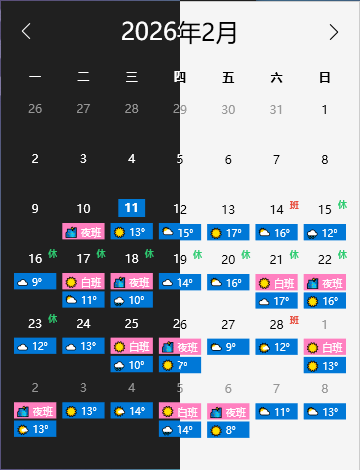
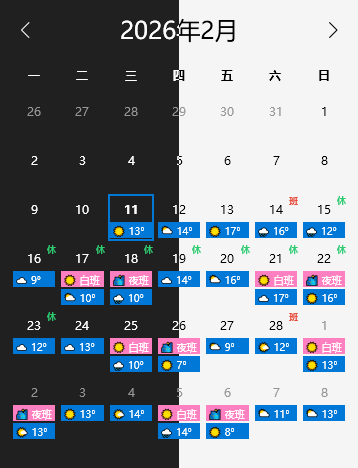
Refine calendar layout and clean up code

diff --git a/Controls/CalendarControl.xaml b/Controls/CalendarControl.xaml
@@ -7,7 +7,9 @@
              xmlns:emoji="clr-namespace:Emoji.Wpf;assembly=Emoji.Wpf"
              mc:Ignorable="d" 
              d:DesignHeight="420" d:DesignWidth="300"
-             x:Name="CalendarUserControl">
+             x:Name="CalendarUserControl"
+             UseLayoutRounding="True"
+             SnapsToDevicePixels="True">
     <UserControl.Resources>
         <Geometry x:Key="PrevMonthArrow">M 8,0 L 0,8 L 8,16</Geometry>
         <Geometry x:Key="NextMonthArrow">M 0,0 L 8,8 L 0,16</Geometry>
@@ -56,7 +58,7 @@
             <Setter Property="Template">
                 <Setter.Value>
                     <ControlTemplate TargetType="Button">
-                        <Border x:Name="border" Background="{TemplateBinding Background}" CornerRadius="0" Padding="{TemplateBinding Padding}">
+                        <Border x:Name="border" Background="{TemplateBinding Background}" BorderBrush="{TemplateBinding BorderBrush}" BorderThickness="{TemplateBinding BorderThickness}" CornerRadius="0" Padding="{TemplateBinding Padding}">
                             <ContentPresenter HorizontalAlignment="Stretch" VerticalAlignment="Stretch"/>
                         </Border>
                         <ControlTemplate.Triggers>

diff --git a/Controls/CalendarControl.xaml.cs b/Controls/CalendarControl.xaml.cs
@@ -206,7 +206,7 @@ public partial class CalendarControl : UserControl
         rowCount = (int)Math.Ceiling(days.Count / 7.0);
         for (int i = 0; i < rowCount; i++)
         {
-            CalendarGrid.RowDefinitions.Add(new RowDefinition { Height = GridLength.Auto, MinHeight = 50 }); // 设置最小高度
+            CalendarGrid.RowDefinitions.Add(new RowDefinition { Height = GridLength.Auto, MinHeight = 48 }); // 设置最小高度
         }
 
         // 填充网格
@@ -226,13 +226,12 @@ public partial class CalendarControl : UserControl
         {
             Style = (Style)FindResource("CalendarDayButtonStyle"),
             Tag = date,
-            Cursor = Cursors.Hand,
+            Cursor = Cursors.Arrow,
             VerticalAlignment = VerticalAlignment.Stretch // 确保填满单元格
         };
 
-        // 使用 Grid 作为容器，以便支持右上角的角标
         var grid = new Grid();
-
+        
         var stackPanel = new StackPanel();
         
         var dayText = new TextBlock
@@ -240,39 +239,14 @@ public partial class CalendarControl : UserControl
             Text = date.Day.ToString(),
             HorizontalAlignment = HorizontalAlignment.Center,
             FontWeight = date.Date == DateTime.Today ? FontWeights.Bold : FontWeights.Normal,
-            Foreground = isOtherMonth ? new SolidColorBrush(Color.FromRgb(150, 150, 150)) : (date.Date == DateTime.Today ? Brushes.White : MonthYearText.Foreground),
-            Background = date.Date == DateTime.Today ? new SolidColorBrush(Colors.LightBlue) { Opacity = 0.8 } : Brushes.Transparent,
-            Padding = new Thickness(6, 2, 6, 2)
+            Foreground = isOtherMonth ? new SolidColorBrush(Color.FromRgb(150, 150, 150)) : MonthYearText.Foreground,
+            Background = Brushes.Transparent,
+            Padding = new Thickness(6, 2, 6, 2),
+            Height = 18, // 固定高度以对齐
+            Margin = new Thickness(0, 6, 0, 0)
         };
         
-        // 圆角背景
-        if (date.Date == DateTime.Today)
-        {
-            var border = new Border
-            {
-                Background = new SolidColorBrush(Color.FromRgb(0, 120, 212)),
-                // CornerRadius = new CornerRadius(10), // 移除圆角
-                Child = new TextBlock
-                {
-                    Text = date.Day.ToString(),
-                    Foreground = Brushes.White,
-                    FontWeight = FontWeights.Bold, // 当前日期改为粗体
-                    HorizontalAlignment = HorizontalAlignment.Center,
-                    VerticalAlignment = VerticalAlignment.Center,
-                    Padding = new Thickness(6, 1, 6, 1), // 调整 Padding 保持高度一致
-                    Height = 18 // 固定高度以对齐
-                },
-                HorizontalAlignment = HorizontalAlignment.Center,
-                Margin = new Thickness(0, 2, 0, 2)
-            };
-            stackPanel.Children.Add(border);
-        }
-        else
-        {
-            dayText.Height = 18; // 固定高度以对齐
-            dayText.Margin = new Thickness(0, 2, 0, 2);
-            stackPanel.Children.Add(dayText);
-        }
+        stackPanel.Children.Add(dayText);
 
         // 添加事件列表显示
         var dayEvents = GetEventsForDate(date);
@@ -295,7 +269,6 @@ public partial class CalendarControl : UserControl
                     Padding = new Thickness(2, 1, 2, 1),
                     Margin = new Thickness(0, 1, 0, 0),
                     TextTrimming = TextTrimming.CharacterEllipsis,
-                    // ToolTip = $"{calendarEvent.StartTime:HH:mm} - {calendarEvent.Title}\n{calendarEvent.Description}", // ToolTip 移到 Border 上
                     VerticalAlignment = VerticalAlignment.Center
                 };
 
@@ -330,15 +303,32 @@ public partial class CalendarControl : UserControl
             var indicator = new TextBlock 
             { 
                 Text = holidayInfo.Type == HolidayType.Holiday ? "休" : "班",
-                Foreground = holidayInfo.Type == HolidayType.Holiday ? new SolidColorBrush(Color.FromRgb(46, 204, 113)) : new SolidColorBrush(Color.FromRgb(231, 76, 60)), // 绿色 / 红色
+                Foreground = holidayInfo.Type == HolidayType.Holiday ? new SolidColorBrush(Color.FromRgb(46, 204, 113)) : new SolidColorBrush(Color.FromRgb(231, 76, 60)),
                 FontSize = 9,
                 FontWeight = FontWeights.Bold,
                 HorizontalAlignment = HorizontalAlignment.Right,
                 VerticalAlignment = VerticalAlignment.Top,
                 Margin = new Thickness(0, 1, 1, 0),
-                ToolTip = holidayInfo.Description // 添加 ToolTip
+                ToolTip = holidayInfo.Description
             };
             grid.Children.Add(indicator);
+        }
+
+        // 最后添加边框
+        if (date.Date == DateTime.Today)
+        {
+            var border = new Border
+            {
+                BorderBrush = new SolidColorBrush(Color.FromRgb(0, 120, 212)),
+                BorderThickness = new Thickness(2),
+                Background = Brushes.Transparent,
+                IsHitTestVisible = false, // 不拦截点击事件
+                HorizontalAlignment = HorizontalAlignment.Stretch,
+                VerticalAlignment = VerticalAlignment.Stretch,
+                SnapsToDevicePixels = true,
+                UseLayoutRounding = true
+            };
+            grid.Children.Add(border);
         }
 
         button.Content = grid;
@@ -349,10 +339,6 @@ public partial class CalendarControl : UserControl
         Grid.SetColumn(button, col);
         CalendarGrid.Children.Add(button);
     }
-
-    // private class TextPart ... (removed)
-    // private List<TextPart> SplitEmoji ... (removed)
-    // private bool IsStringEmoji ... (removed)
 
     private List<CalendarEvent> GetEventsForDate(DateTime date)
     {
@@ -415,7 +401,6 @@ public partial class CalendarControl : UserControl
                     {
                         Header = calendarEvent.IsAllDay ? $"全天 - {calendarEvent.Title}" : $"{calendarEvent.StartTime:HH:mm} - {calendarEvent.Title}",
                         Tag = calendarEvent
-                        // Background = (Brush)new BrushConverter().ConvertFromString(calendarEvent.Color) ?? Brushes.Blue // 移除自定义背景色
                     };
                     menuItem.Click += (s, args) =>
                     {

diff --git a/MainWindow.xaml.cs b/MainWindow.xaml.cs
@@ -200,32 +200,6 @@ public partial class MainWindow : Window
         timer.Elapsed += async (s, e) => 
         {
             await LoadHolidayDataAsync("Timer");
-            // LoadHolidayDataAsync 内部会再次调用 SetupHolidayTimer (递归)
-            // 只要我们确保 LoadHolidayDataAsync 里每次都更新 LastUpdated (如果走了网络)
-            // 如果走了缓存，LastUpdated 没变，会导致死循环立即触发？
-            // IcsService.LoadEventsFromIcsAsync:
-            //   - 网络成功: 更新 LastUpdated
-            //   - 网络跳过: 不更新 LastUpdated
-            //   - 失败: 不更新 LastUpdated
-            
-            // 如果网络跳过（因为时间没到），那 LastUpdated 还是旧的。
-            // 但 SetupHolidayTimer 是根据 LastUpdated + Interval 计算的。
-            // 如果 LastUpdated 是旧的，NextRefreshTime 也是旧的（过去的时间），initialDelay 会是 1000ms。
-            // 于是 1秒后又触发，又跳过，又触发... 死循环。
-            
-            // 修正：只有当 LoadEventsFromIcsAsync 真正执行了刷新（并更新了 LastUpdated）或者我们需要强制推迟下一次检查时。
-            // 如果 LoadEventsFromIcsAsync 跳过了网络请求，说明不需要刷新。
-            // 但为什么会跳过？
-            // 1. Startup: 检查 LastUpdated。
-            // 2. Timer: 我们在 LoadEventsFromIcsAsync 里没写 Timer 的跳过逻辑，只写了 Startup。
-            // 所以 Timer 触发时，LoadEventsFromIcsAsync 会强制尝试网络请求。
-            // 如果请求成功，LastUpdated 更新，下次 Timer 就会很久以后。
-            // 如果请求失败，LastUpdated 不变，下次 Timer 又是 1秒后（因为 nextRefreshTime 还是过去）。
-            // 这会导致失败时疯狂重试。
-            
-            // 我们需要在失败时也推迟。
-            // 或者，我们在 SetupHolidayTimer 里，如果发现 nextRefreshTime 已经是过去式了，
-            // 说明刚刚尝试刷新失败了（或者没更新时间），我们应该强制加一个延迟（比如 1小时后重试）。
         };
         timer.Start();
         _sourceTimers[_holidaySource.Id] = timer;
@@ -796,21 +770,6 @@ public partial class MainWindow : Window
         
         // 重新设置定时器
         SetupRefreshTimers();
-        // 关闭设置窗口时不重新拉取数据
-        // _ = LoadCalendarEventsAsync("SettingsChanged");
-        
-        // 仅刷新 UI（从内存/缓存中重新构建），因为启用/禁用状态可能变了
-        // 但 LoadCalendarEventsAsync 会触发 LoadAllEventsAsync -> LoadEventsFromIcsAsync -> 网络/缓存
-        // 如果只是想刷新显隐，应该有一个更轻量的方法，或者 LoadEventsFromIcsAsync 内部已经有缓存了，所以其实开销还好？
-        // 但用户明确要求“不要重新拉取数据”。
-        // 如果 LoadEventsFromIcsAsync 在缓存有效时不去联网，那就符合要求。
-        // 但目前的实现是：LoadEventsFromIcsAsync 会优先联网。
-        // 所以我们需要一个新的逻辑：只从缓存/内存加载，不联网。
-        
-        // 暂时先只刷新 UI，利用现有的事件数据（如果内存里有）
-        // 或者，我们可以假设用户在设置窗口里的操作（添加/编辑/删除/启用/禁用）都已经触发了必要的刷新。
-        // 添加/编辑/删除/启用/禁用 都在 SettingsWindow 里处理了。
-        // 我们来看看 SettingsWindow 里的逻辑。
     }
 
     public void RefreshSingleSource(Models.IcsSource source)

diff --git a/Services/TrayIconHelper.cs b/Services/TrayIconHelper.cs
@@ -182,27 +182,9 @@ namespace MiniCalendar.Services
                 for (int i = 0; i < count; i++)
                 {
                     // Define TBBUTTON size
-                    int tbButtonSize = is64Bit ? 32 : 20; // Rough estimation: 64-bit (8+4+1+1+6+8+8=36? No, actually: 8(bitmap)+4(id)+1(state)+1(style)+6(align)+8(data)+8(string) = 36? Wait. 
-                    // Let's use Marshal.SizeOf if we had the struct defined, but we'll do manual offset calculation for safety across processes.
-                    // 64-bit TBBUTTON:
-                    // 0: iBitmap (4 bytes)
-                    // 4: idCommand (4 bytes)
-                    // 8: fsState (1 byte)
-                    // 9: fsStyle (1 byte)
-                    // 10: bReserved (6 bytes padding) -> 16
-                    // 16: dwData (8 bytes)
-                    // 24: iString (8 bytes)
-                    // Total: 32 bytes?
-                    
-                    // 32-bit TBBUTTON:
-                    // 0: iBitmap (4 bytes)
-                    // 4: idCommand (4 bytes)
-                    // 8: fsState (1 byte)
-                    // 9: fsStyle (1 byte)
-                    // 10: bReserved (2 bytes) -> 12
-                    // 12: dwData (4 bytes)
-                    // 16: iString (4 bytes)
-                    // Total: 20 bytes
+                    // 64-bit TBBUTTON: 32 bytes
+                    // 32-bit TBBUTTON: 20 bytes
+                    int tbButtonSize = is64Bit ? 32 : 20;
 
                     // We need to allocate memory in the remote process
                     IntPtr lpRemoteBuffer = VirtualAllocEx(hProcess, IntPtr.Zero, (uint)tbButtonSize, AllocationType.Commit, MemoryProtection.ReadWrite);

diff --git a/Services/IcsService.cs b/Services/IcsService.cs
@@ -104,13 +104,6 @@ public class IcsService
                 }
             }
         }
-        else if (triggerType == "Timer")
-        {
-             // 定时器触发时，通常意味着时间到了。但为了防止 Timer 刚刚启动就触发（虽然设置了 Interval），
-             // 或者系统休眠唤醒导致的一堆 Timer 触发，也可以检查一下。
-             // 不过 Timer 的逻辑在 MainWindow 里控制，这里主要负责执行。
-             // 暂不强制检查，除非为了防抖。
-        }
 
         try
         {

diff --git a/README.md b/README.md
@@ -71,6 +71,9 @@ MiniCalendar/
 2. 使用 Visual Studio 打开 `MiniCalendar.csproj`
 3. 还原 NuGet 包
 4. 编译并运行项目
+```bash
+dotnet run
+```
 
 ### 发布
 ```bash
